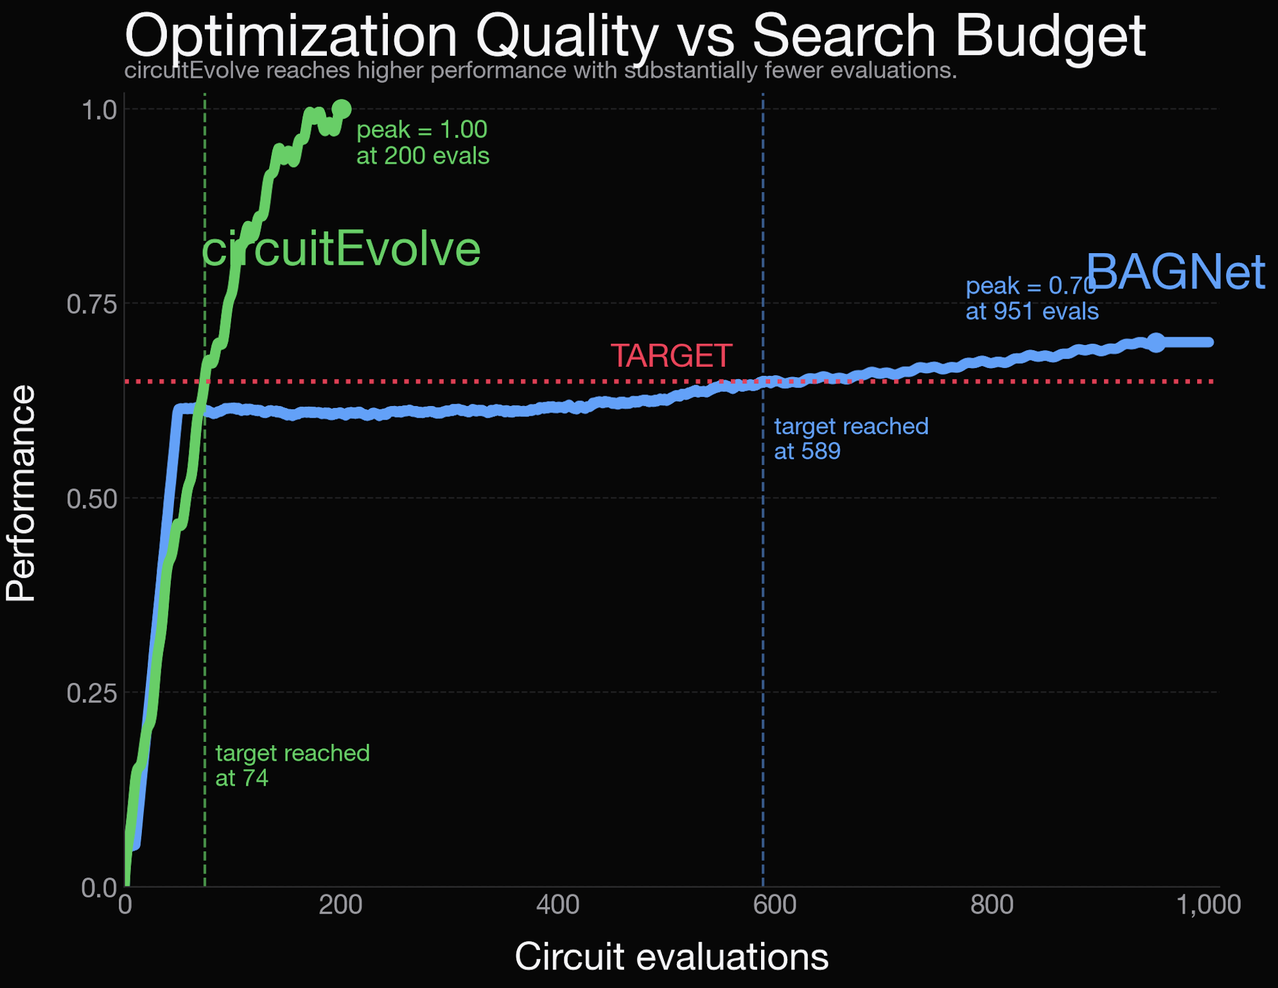
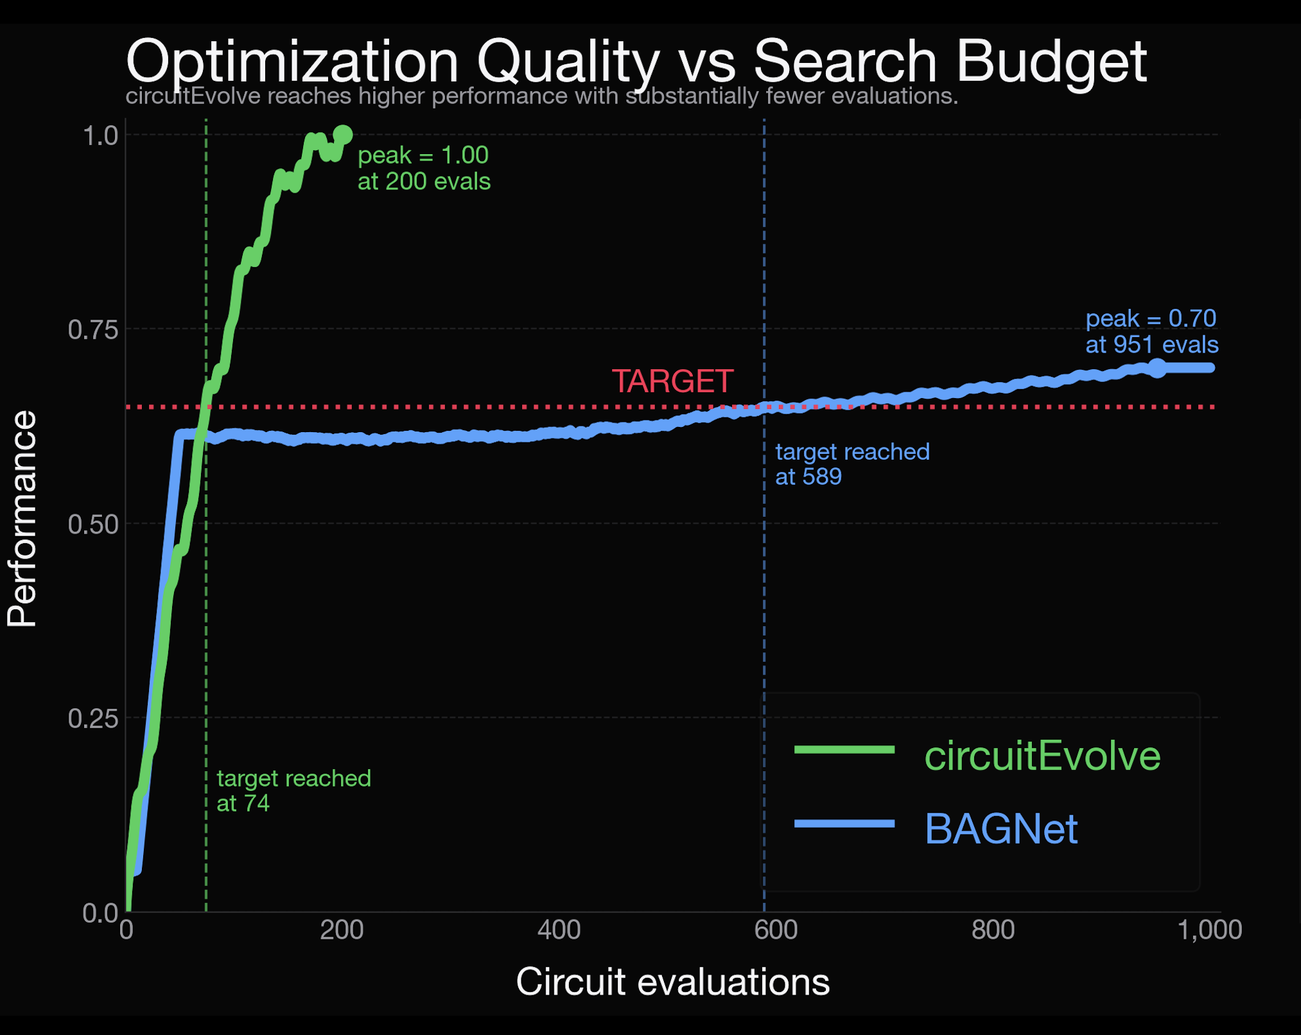
Add EEsizer and AmpAgent benchmark sections, restructure empirical evaluation, update figure4 and chart scripts

diff --git a/src/pages/Index.tsx b/src/pages/Index.tsx
@@ -368,88 +368,232 @@ const Index = () => {
 
             {isEmpiricalOpen && (
               <div className="border-x border-b border-foreground/10 bg-background/60 px-5 pb-5 pt-4 text-sm leading-relaxed text-foreground/90 sm:text-base">
-                <div className="space-y-4">
+                <div className="space-y-6">
+
+                  {/* Umbrella intro */}
                   <p>
-                    We evaluate circuitEvolve against prior work along three quantities: peak performance, evaluations required to reach the target threshold, and a normalized search-efficiency score defined as peak performance divided by the number of evaluations required to attain that peak. Together, these quantities capture solution quality, sample efficiency, and optimization effectiveness under a fixed evaluation budget.
+                    We compare circuitEvolve against three optimization systems from the literature: <strong>BAGNet</strong>, a reinforcement learning based analog sizing system evaluated on the two-stage amplifier task; <strong>EEsizer</strong>, a widely used industrial sizing optimization framework; and <strong>AmpAgent</strong>, a recently proposed method for LLM guided circuit optimization evaluated on the AZC amplifier benchmark. Each comparison reports three quantities: peak performance reached during optimization, number of evaluations required to reach a defined target threshold, and a search-efficiency score computed as peak performance divided by total evaluations at peak. These metrics jointly characterize solution quality, sample efficiency, and optimization effectiveness under a fixed evaluation budget.
                   </p>
 
-                  {/* Comparison Table */}
-                  <div className="my-6 overflow-x-auto">
-                    <table className="w-full border-collapse text-sm">
-                      <thead>
-                        <tr className="border-b-2 border-foreground/20">
-                          <th className="px-3 py-2 text-left font-semibold">Metric</th>
-                          <th className="px-3 py-2 text-left font-semibold">BAGNet</th>
-                          <th className="px-3 py-2 text-left font-semibold">circuitEvolve</th>
-                          <th className="px-3 py-2 text-left font-semibold">Improvement</th>
-                        </tr>
-                      </thead>
-                      <tbody className="divide-y divide-foreground/10">
-                        <tr>
-                          <td className="px-3 py-2">Peak performance</td>
-                          <td className="px-3 py-2 font-mono">0.70</td>
-                          <td className="px-3 py-2 font-mono">1.00</td>
-                          <td className="px-3 py-2 font-semibold">1.43× higher</td>
-                        </tr>
-                        <tr>
-                          <td className="px-3 py-2">Evaluations to reach target (0.65)</td>
-                          <td className="px-3 py-2 font-mono">589</td>
-                          <td className="px-3 py-2 font-mono">74</td>
-                          <td className="px-3 py-2 font-semibold">7.96× fewer</td>
-                        </tr>
-                        <tr>
-                          <td className="px-3 py-2">Peak performance / evaluations at peak</td>
-                          <td className="px-3 py-2 font-mono">0.70 / 951 = 0.000736</td>
-                          <td className="px-3 py-2 font-mono">1.00 / 200 = 0.005000</td>
-                          <td className="px-3 py-2 font-semibold">6.79× better</td>
-                        </tr>
-                      </tbody>
-                    </table>
-                  </div>
-
-                  <p>
-                    The comparison shows that circuitEvolve is superior not only in final solution quality, but also in search efficiency. It reaches the target threshold substantially earlier, attains a higher peak performance, and converts each evaluation into useful optimization progress more effectively than BAGNet.
-                  </p>
-
-                  {/* Figure 3: Per-evaluation cost */}
-                  <div className="space-y-3 mt-6">
-                    <h3 className="text-base font-semibold tracking-tight text-foreground">
-                      Per-evaluation runtime
-                    </h3>
+                  {/* BAGNet section */}
+                  <div className="space-y-4 border-t border-foreground/10 pt-5">
+                    <p className="text-xs font-medium uppercase tracking-widest text-foreground/50">Comparison I</p>
+                    <h3 className="text-base font-semibold tracking-tight text-foreground">BAGNet</h3>
                     <p>
-                      Per-evaluation runtime directly determines the number of circuit evaluations that can be performed within a fixed wall-clock time. Lower evaluation cost allows the optimizer to explore more candidate circuits during the same optimization window.
+                      BAGNet applies reinforcement learning to the two-stage amplifier sizing problem, treating device parameter selection as a sequential decision process. We evaluate circuitEvolve on the same task under an identical composite objective and compare across the three reported quantities. The target threshold is set at 0.65, corresponding to a level BAGNet reaches after extensive search.
                     </p>
-                    <div className="mt-2 flex justify-center">
-                      <img
-                        src="/figure3.png"
-                        alt="Per-evaluation cost comparison"
-                        className="w-full max-w-2xl rounded-md border border-foreground/10"
-                      />
+                    <div className="overflow-x-auto">
+                      <table className="w-full border-collapse text-sm">
+                        <thead>
+                          <tr className="border-b-2 border-foreground/20">
+                            <th className="px-3 py-2 text-left font-semibold">Metric</th>
+                            <th className="px-3 py-2 text-left font-semibold">BAGNet</th>
+                            <th className="px-3 py-2 text-left font-semibold">circuitEvolve</th>
+                            <th className="px-3 py-2 text-left font-semibold">Improvement</th>
+                          </tr>
+                        </thead>
+                        <tbody className="divide-y divide-foreground/10">
+                          <tr>
+                            <td className="px-3 py-2">Peak performance</td>
+                            <td className="px-3 py-2 font-mono">0.70</td>
+                            <td className="px-3 py-2 font-mono">1.00</td>
+                            <td className="px-3 py-2 font-semibold">1.43× higher</td>
+                          </tr>
+                          <tr>
+                            <td className="px-3 py-2">Evaluations to reach target (0.65)</td>
+                            <td className="px-3 py-2 font-mono">589</td>
+                            <td className="px-3 py-2 font-mono">74</td>
+                            <td className="px-3 py-2 font-semibold">7.96× fewer</td>
+                          </tr>
+                          <tr>
+                            <td className="px-3 py-2">Peak performance / evaluations at peak</td>
+                            <td className="px-3 py-2 font-mono">0.70 / 951 = 0.000736</td>
+                            <td className="px-3 py-2 font-mono">1.00 / 200 = 0.005000</td>
+                            <td className="px-3 py-2 font-semibold">6.79× better</td>
+                          </tr>
+                        </tbody>
+                      </table>
                     </div>
-                    <p className="text-sm text-foreground/70">
-                      <strong>Figure 3:</strong> Per-evaluation cost. circuitEvolve reduces evaluation time from 4,153 ms to 335 ms, yielding 12.4× faster evaluation and 91.9% less evaluation time relative to BAGNet. This directly increases the practical search budget available under fixed compute.
+                    <p>
+                      circuitEvolve reaches the target threshold in 74 evaluations compared to 589 for BAGNet, attains a higher peak score of 1.00 against 0.70, and produces a search-efficiency score 6.79× greater. The result indicates that simulation-grounded topology search extracts substantially more value from each evaluation than policy gradient sizing alone.
+                    </p>
+
+                    <div className="space-y-3 pt-2">
+                      <h4 className="text-sm font-semibold tracking-tight text-foreground">Per-evaluation runtime</h4>
+                      <p>
+                        Per-evaluation runtime determines how many circuit candidates can be assessed within a fixed wall-clock budget. A lower cost per evaluation directly expands the practical search horizon.
+                      </p>
+                      <div className="flex justify-center">
+                        <img
+                          src="/figure3.png"
+                          alt="Per-evaluation cost comparison"
+                          className="w-full max-w-2xl rounded-md border border-foreground/10"
+                        />
+                      </div>
+                      <p className="text-sm text-foreground/70">
+                        <strong>Figure 3:</strong> Per-evaluation cost. circuitEvolve reduces evaluation time from 4,153 ms to 335 ms, yielding 12.4× faster evaluation and 91.9% less evaluation time relative to BAGNet. This directly increases the practical search budget available under fixed compute.
+                      </p>
+                    </div>
+
+                    <div className="space-y-3 pt-2">
+                      <h4 className="text-sm font-semibold tracking-tight text-foreground">Solution quality under fixed budget</h4>
+                      <p>
+                        Solution quality under a fixed evaluation budget provides a more complete picture than raw iteration count alone. The curve below shows that circuitEvolve reaches the target threshold earlier and continues improving to a stronger final solution, while BAGNet requires substantially more evaluations and saturates at a lower peak.
+                      </p>
+                      <div className="flex justify-center">
+                        <img
+                          src="/figure4.png"
+                          alt="Optimization quality versus search budget"
+                          className="w-full max-w-2xl rounded-md border border-foreground/10"
+                        />
+                      </div>
+                      <p className="text-sm text-foreground/70">
+                        <strong>Figure 4:</strong> Optimization quality versus search budget. circuitEvolve reaches the target threshold (0.65) in 74 evaluations, whereas BAGNet requires 589 evaluations. circuitEvolve also reaches a higher peak performance (1.00) than BAGNet (0.70), indicating superior sample efficiency and stronger final optimization quality.
+                      </p>
+                    </div>
+                  </div>
+
+                  {/* EEsizer section */}
+                  <div className="space-y-4 border-t border-foreground/10 pt-5">
+                    <p className="text-xs font-medium uppercase tracking-widest text-foreground/50">Comparison II</p>
+                    <h3 className="text-base font-semibold tracking-tight text-foreground">EEsizer</h3>
+                    <p>
+                      EEsizer is an industrial sizing optimization framework that applies structured parameter search within a fixed circuit topology. Both systems are evaluated under the same composite objective in the ShinkaEvolve environment. The target threshold is set at the baseline EEsizer peak score of 5.1869.
+                    </p>
+                    <div className="overflow-x-auto">
+                      <table className="w-full border-collapse text-sm">
+                        <thead>
+                          <tr className="border-b-2 border-foreground/20">
+                            <th className="px-3 py-2 text-left font-semibold">Metric</th>
+                            <th className="px-3 py-2 text-left font-semibold">EEsizer</th>
+                            <th className="px-3 py-2 text-left font-semibold">circuitEvolve</th>
+                            <th className="px-3 py-2 text-left font-semibold">Improvement</th>
+                          </tr>
+                        </thead>
+                        <tbody className="divide-y divide-foreground/10">
+                          <tr>
+                            <td className="px-3 py-2">Peak performance</td>
+                            <td className="px-3 py-2 font-mono">5.1869</td>
+                            <td className="px-3 py-2 font-mono">8.3003</td>
+                            <td className="px-3 py-2 font-semibold">1.60× higher</td>
+                          </tr>
+                          <tr>
+                            <td className="px-3 py-2">Evaluations to reach target (5.1869)</td>
+                            <td className="px-3 py-2 font-mono">25</td>
+                            <td className="px-3 py-2 font-mono">7</td>
+                            <td className="px-3 py-2 font-semibold">3.57× fewer</td>
+                          </tr>
+                          <tr>
+                            <td className="px-3 py-2">Peak performance / evaluations at peak</td>
+                            <td className="px-3 py-2 font-mono">5.1869 / 25 = 0.2075</td>
+                            <td className="px-3 py-2 font-mono">8.3003 / 89 = 0.0933</td>
+                            <td className="px-3 py-2 text-foreground/50">n/a</td>
+                          </tr>
+                        </tbody>
+                      </table>
+                    </div>
+                    <p>
+                      EEsizer converges to its peak score within a small number of evaluations because the search is confined to parameter adjustment within a fixed topology. circuitEvolve uses more evaluations to reach its peak because it continues exploring structural modifications beyond the parameter regime. The result is a final score 1.60× higher, reflecting configurations that parameter-only search cannot reach.
                     </p>
                   </div>
 
-                  {/* Figure 4: Quality vs budget */}
-                  <div className="space-y-3 mt-6">
-                    <h3 className="text-base font-semibold tracking-tight text-foreground">
-                      Solution quality under fixed budget
-                    </h3>
+                  {/* AmpAgent section */}
+                  <div className="space-y-4 border-t border-foreground/10 pt-5">
+                    <p className="text-xs font-medium uppercase tracking-widest text-foreground/50">Comparison III</p>
+                    <h3 className="text-base font-semibold tracking-tight text-foreground">AmpAgent (AZC Amplifier)</h3>
                     <p>
-                      A more informative measure than raw iteration count is solution quality under a fixed evaluation budget. The following comparison shows that circuitEvolve reaches the target threshold earlier and continues to improve to a stronger final solution, while BAGNet requires substantially more evaluations and saturates at a lower peak performance.
+                      AmpAgent applies an LLM guided optimization loop to the AZC amplifier, a widely used analog benchmark circuit. Performance is measured using the IFOMS objective, which aggregates gain-bandwidth product, phase margin, supply current, and load conditions into a single scalar. We compare the best circuit found by AmpAgent against the best circuit found by circuitEvolve on the same task.
                     </p>
-                    <div className="mt-2 flex justify-center">
-                      <img
-                        src="/figure4.png"
-                        alt="Optimization quality versus search budget"
-                        className="w-full max-w-2xl rounded-md border border-foreground/10"
-                      />
+
+                    <div className="overflow-x-auto">
+                      <table className="w-full border-collapse text-sm">
+                        <caption className="mb-2 text-left text-xs font-medium uppercase tracking-widest text-foreground/50">
+                          AZC circuit performance
+                        </caption>
+                        <thead>
+                          <tr className="border-b-2 border-foreground/20">
+                            <th className="px-3 py-2 text-left font-semibold">System</th>
+                            <th className="px-3 py-2 text-left font-semibold">GBW (MHz)</th>
+                            <th className="px-3 py-2 text-left font-semibold">PM (deg)</th>
+                            <th className="px-3 py-2 text-left font-semibold">GainDC (dB)</th>
+                            <th className="px-3 py-2 text-left font-semibold">Idd (mA)</th>
+                            <th className="px-3 py-2 text-left font-semibold">IFOMS</th>
+                          </tr>
+                        </thead>
+                        <tbody className="divide-y divide-foreground/10">
+                          <tr>
+                            <td className="px-3 py-2">AmpAgent</td>
+                            <td className="px-3 py-2 font-mono">1.01</td>
+                            <td className="px-3 py-2 font-mono">61.0</td>
+                            <td className="px-3 py-2 font-mono">133</td>
+                            <td className="px-3 py-2 font-mono">0.047</td>
+                            <td className="px-3 py-2 font-mono">322,340</td>
+                          </tr>
+                          <tr>
+                            <td className="px-3 py-2">circuitEvolve</td>
+                            <td className="px-3 py-2 font-mono">1.8689</td>
+                            <td className="px-3 py-2 font-mono">69.19</td>
+                            <td className="px-3 py-2 font-mono">92.97</td>
+                            <td className="px-3 py-2 font-mono">0.0652</td>
+                            <td className="px-3 py-2 font-semibold">429,908</td>
+                          </tr>
+                        </tbody>
+                      </table>
                     </div>
-                    <p className="text-sm text-foreground/70">
-                      <strong>Figure 4:</strong> Optimization quality versus search budget. circuitEvolve reaches the target threshold (0.65) in 74 evaluations, whereas BAGNet requires 589 evaluations. circuitEvolve also reaches a higher peak performance (1.00) than BAGNet (0.70), indicating superior sample efficiency and stronger final optimization quality.
+
+                    <p>
+                      circuitEvolve finds a circuit with 1.85× higher gain-bandwidth product and 8.19 degrees greater phase margin, at the cost of modestly higher supply current. The net IFOMS score is 429,908 against 322,340 for AmpAgent, a 1.33× improvement.
+                    </p>
+
+                    <p>
+                      Using a target threshold of 192,000 IFOMS, corresponding to the baseline reference value reported in the AmpAgent paper, we compare search efficiency across both systems.
+                    </p>
+
+                    <div className="overflow-x-auto">
+                      <table className="w-full border-collapse text-sm">
+                        <caption className="mb-2 text-left text-xs font-medium uppercase tracking-widest text-foreground/50">
+                          AZC search efficiency (target: 192,000 IFOMS)
+                        </caption>
+                        <thead>
+                          <tr className="border-b-2 border-foreground/20">
+                            <th className="px-3 py-2 text-left font-semibold">Metric</th>
+                            <th className="px-3 py-2 text-left font-semibold">AmpAgent</th>
+                            <th className="px-3 py-2 text-left font-semibold">circuitEvolve</th>
+                          </tr>
+                        </thead>
+                        <tbody className="divide-y divide-foreground/10">
+                          <tr>
+                            <td className="px-3 py-2">Peak performance</td>
+                            <td className="px-3 py-2 font-mono">322,340</td>
+                            <td className="px-3 py-2 font-semibold">429,908</td>
+                          </tr>
+                          <tr>
+                            <td className="px-3 py-2">Evaluations to reach target (192,000)</td>
+                            <td className="px-3 py-2 font-mono">20</td>
+                            <td className="px-3 py-2 font-semibold">3</td>
+                          </tr>
+                          <tr>
+                            <td className="px-3 py-2">Performance at target / evaluations used</td>
+                            <td className="px-3 py-2 font-mono">192,000 / 20 = 9,600</td>
+                            <td className="px-3 py-2 font-semibold">205,118 / 3 = 68,373</td>
+                          </tr>
+                        </tbody>
+                      </table>
+                    </div>
+
+                    <p>
+                      circuitEvolve reaches the 192,000 IFOMS threshold in three evaluations. AmpAgent requires twenty. At the moment the threshold is crossed, circuitEvolve achieves a target-efficiency score of 68,373 against 9,600 for AmpAgent, a 7.12× difference. This indicates that circuitEvolve not only finds better circuits but converges to acceptable performance with substantially less search effort.
                     </p>
                   </div>
+
+                  {/* Cumulative summary */}
+                  <div className="space-y-3 border-t border-foreground/10 pt-5">
+                    <h3 className="text-base font-semibold tracking-tight text-foreground">Summary</h3>
+                    <p>
+                      Across all three comparisons the results are consistent. circuitEvolve achieves higher peak performance, reaches target thresholds in fewer evaluations, and produces stronger search-efficiency scores relative to each baseline. The gains are largest in sample efficiency, where circuitEvolve requires between 3.57× and 7.96× fewer evaluations to reach a given performance level. This pattern holds across reinforcement learning based sizing (BAGNet), industrial parameter optimization (EEsizer), and LLM guided circuit search (AmpAgent), suggesting the improvement is not task-specific but reflects a general advantage of simulation-grounded topology exploration over parameter-only optimization strategies.
+                    </p>
+                  </div>
+
                 </div>
               </div>
             )}

diff --git a/src/pages/LearnMore.tsx b/src/pages/LearnMore.tsx
@@ -3,7 +3,7 @@ const LearnMore = () => {
     <div className="min-h-screen bg-background px-6 py-10 md:px-16 md:py-16 text-foreground">
       <div className="mx-auto max-w-3xl space-y-8">
         <h1 className="text-3xl font-bold tracking-tight sm:text-4xl md:text-5xl">
-          Introducing circuitEvolve
+          The Next Era of Analog Design
         </h1>
 
         <div className="space-y-4 text-lg leading-relaxed sm:text-xl">

diff --git a/benchmarks/website_quality_vs_budget_v2.py b/benchmarks/website_quality_vs_budget_v2.py
@@ -4,6 +4,7 @@ import csv
 from pathlib import Path
 import numpy as np
 import matplotlib.pyplot as plt
+import matplotlib.lines as mlines
 
 BG = "#070707"
 PANEL = "#111111"
@@ -34,7 +35,7 @@ def value_at(x, values, target_x):
 
 def main():
     csv_path = Path(__file__).with_name("comparison.csv")
-    out_path = Path(__file__).with_suffix(".png")
+    out_path = Path(__file__).parent / "website_quality_vs_budget_v2.png"
 
     x, bagnet, ce = load_data(csv_path)
 
@@ -86,9 +87,12 @@ def main():
     ax.scatter([ce_peak_x], [ce_peak], s=90, color=GREEN, zorder=5)
     ax.scatter([bag_peak_x], [bag_peak], s=90, color=BLUE, zorder=5)
 
+    # circuitEvolve peak annotation
     ax.text(ce_peak_x + 14, ce_peak - 0.07, f"peak = {ce_peak:.2f}\nat {ce_peak_x} evals",
             color=GREEN, fontsize=13)
-    ax.text(835, 0.71, f"peak = {bag_peak:.2f}\nat {bag_peak_x} evals",
+
+    # BAGNet peak annotation — top right where BAGNet label was
+    ax.text(885, 0.72, f"peak = {bag_peak:.2f}\nat {bag_peak_x} evals",
             color=BLUE, fontsize=13)
 
     if ce_target_x is not None:
@@ -103,8 +107,27 @@ def main():
     ax.text(0.0, 1.02, "circuitEvolve reaches higher performance with substantially fewer evaluations.",
             transform=ax.transAxes, color=MUTED, fontsize=12.5, ha="left")
 
-    ax.text(70, 0.80, "circuitEvolve", color=GREEN, fontsize=26, fontweight="bold")
-    ax.text(885, 0.77, "BAGNet", color=BLUE, fontsize=26, fontweight="bold")
+    # Legend key — bottom left inside the chart
+    ce_handle = mlines.Line2D([], [], color=GREEN, linewidth=4, label="circuitEvolve")
+    bag_handle = mlines.Line2D([], [], color=BLUE, linewidth=4, label="BAGNet")
+    legend = ax.legend(
+        handles=[ce_handle, bag_handle],
+        loc="lower right",
+        fontsize=22,
+        frameon=True,
+        framealpha=0.25,
+        facecolor=PANEL,
+        edgecolor=GRID,
+        labelcolor=[GREEN, BLUE],
+        handlelength=2.2,
+        handleheight=1.4,
+        borderpad=0.9,
+        labelspacing=0.6,
+    )
+    for text, color in zip(legend.get_texts(), [GREEN, BLUE]):
+        text.set_color(color)
+        text.set_fontweight("bold")
+        text.set_fontsize(22)
 
     panel = fig.add_axes([0.68, 0.15, 0.27, 0.73], facecolor=PANEL)
     panel.set_xticks([]); panel.set_yticks([])
